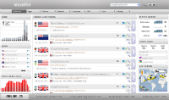
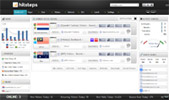
* Updated thumbnail picture
git-svn-id: https://plugins.svn.wordpress.org/hitsteps-visitor-manager/trunk@968797 b8457f37-d9ea-0310-8a92-e5e31aec5664

diff --git a/hitsteps.php b/hitsteps.php
@@ -4,7 +4,7 @@ Plugin Name: Hitsteps Visitor Manager
 Plugin URI: http://www.hitsteps.com/
 Description: Hitsteps is a powerful real time website visitor manager, it allow you to view and interact with your visitors in real time.
 Author: hitsteps.com
-Version: 2.15
+Version: 2.16
 Author URI: http://www.hitsteps.com/
 */ 
 
